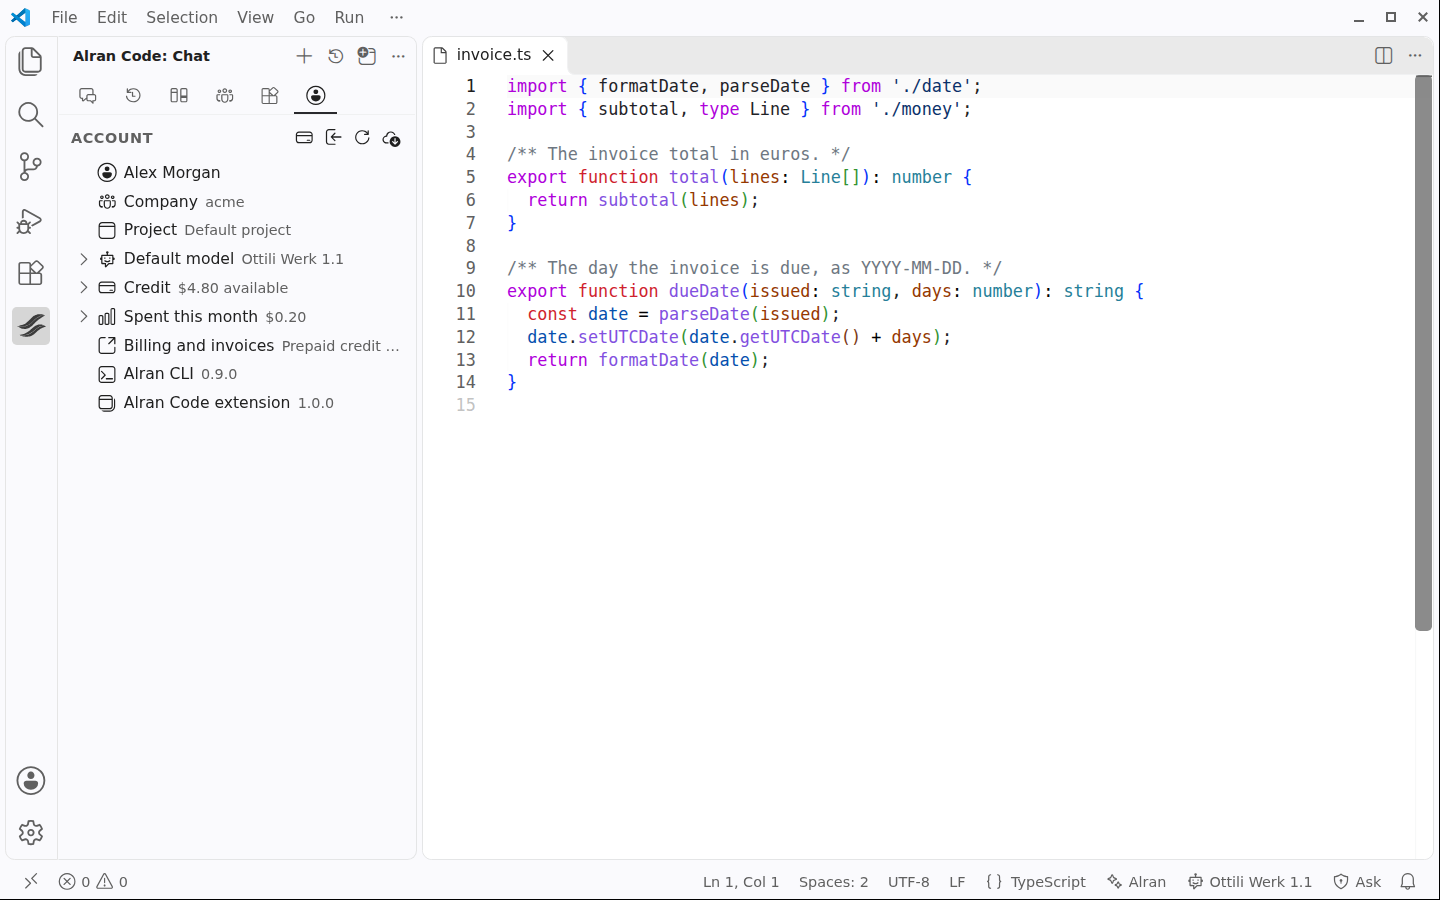
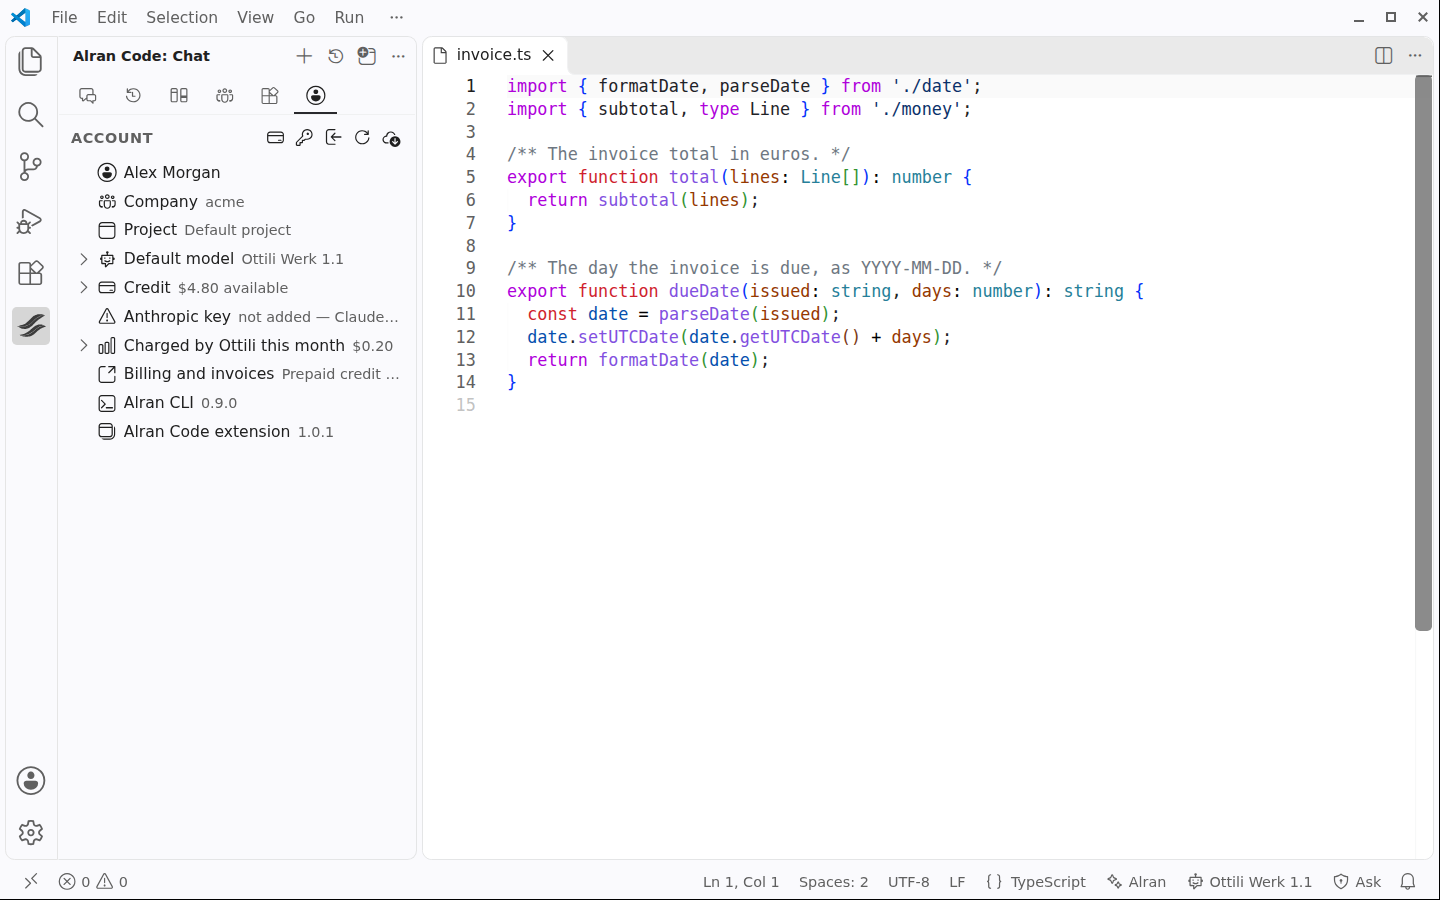
docs(screenshots): the README shots show Claude on the customer's own Anthropic key
The failure card says 'Claude needs your Anthropic key' with 'Add your Anthropic key' and 'Switch to Ottili
Werk', the model picker says 'Needs your Anthropic key', the Account view has the 'Anthropic key' row. They come
from the end-to-end suite (real CLI, fake gateway); the suite expects the new Account row.

Changed region(s): [[0.0625, 0.3422, 0.2812, 0.4978], [0.1875, 0.1244, 0.2188, 0.1556]]

diff --git a/test/e2e/suite/index.ts b/test/e2e/suite/index.ts
@@ -406,7 +406,7 @@ const steps: Array<[string, (api: AlranExtensionApi) => Promise<void>]> = [
       const rows = api.trees.account.getChildren();
       assert.deepEqual(
         rows.map((row) => row.id),
-        ['account.user', 'account.company', 'account.project', 'account.model', 'account.credits', 'account.month', 'account.billing', 'account.cli', 'account.extension'],
+        ['account.user', 'account.company', 'account.project', 'account.model', 'account.credits', 'account.anthropicKey', 'account.month', 'account.billing', 'account.cli', 'account.extension'],
       );
       await vscode.commands.executeCommand('alran.account.focus');
       await vscode.commands.executeCommand('list.expandAll').then(undefined, () => undefined);
